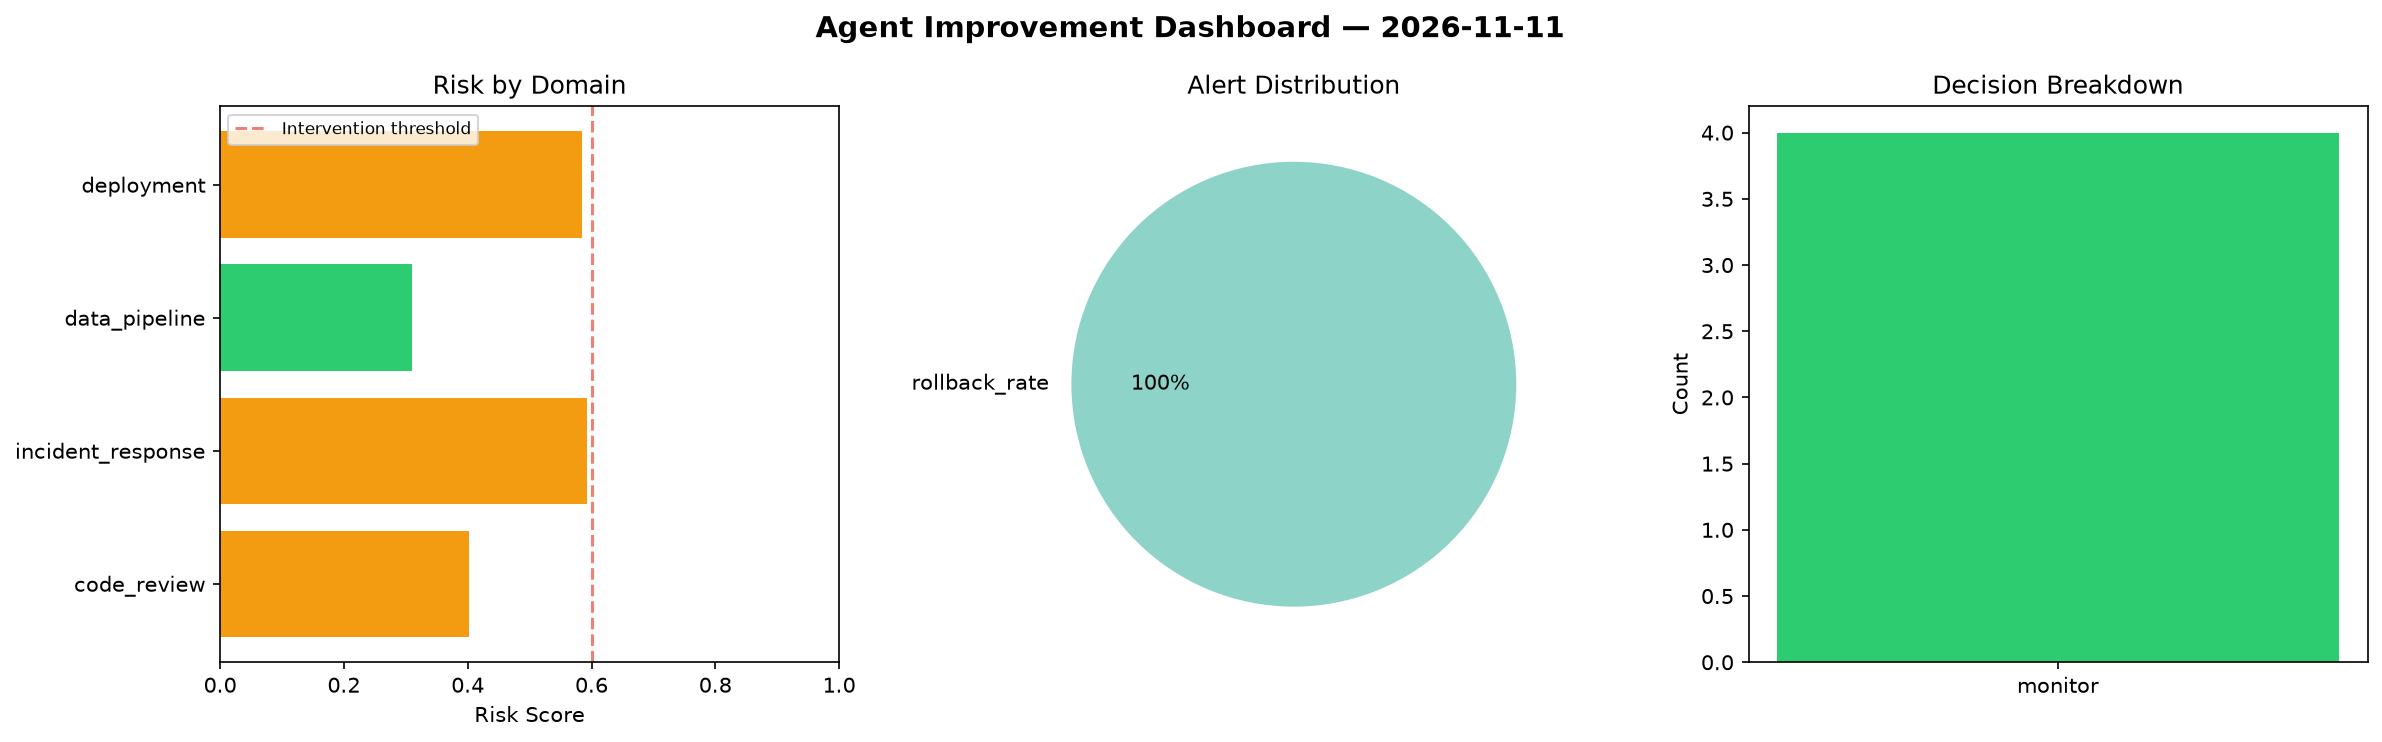
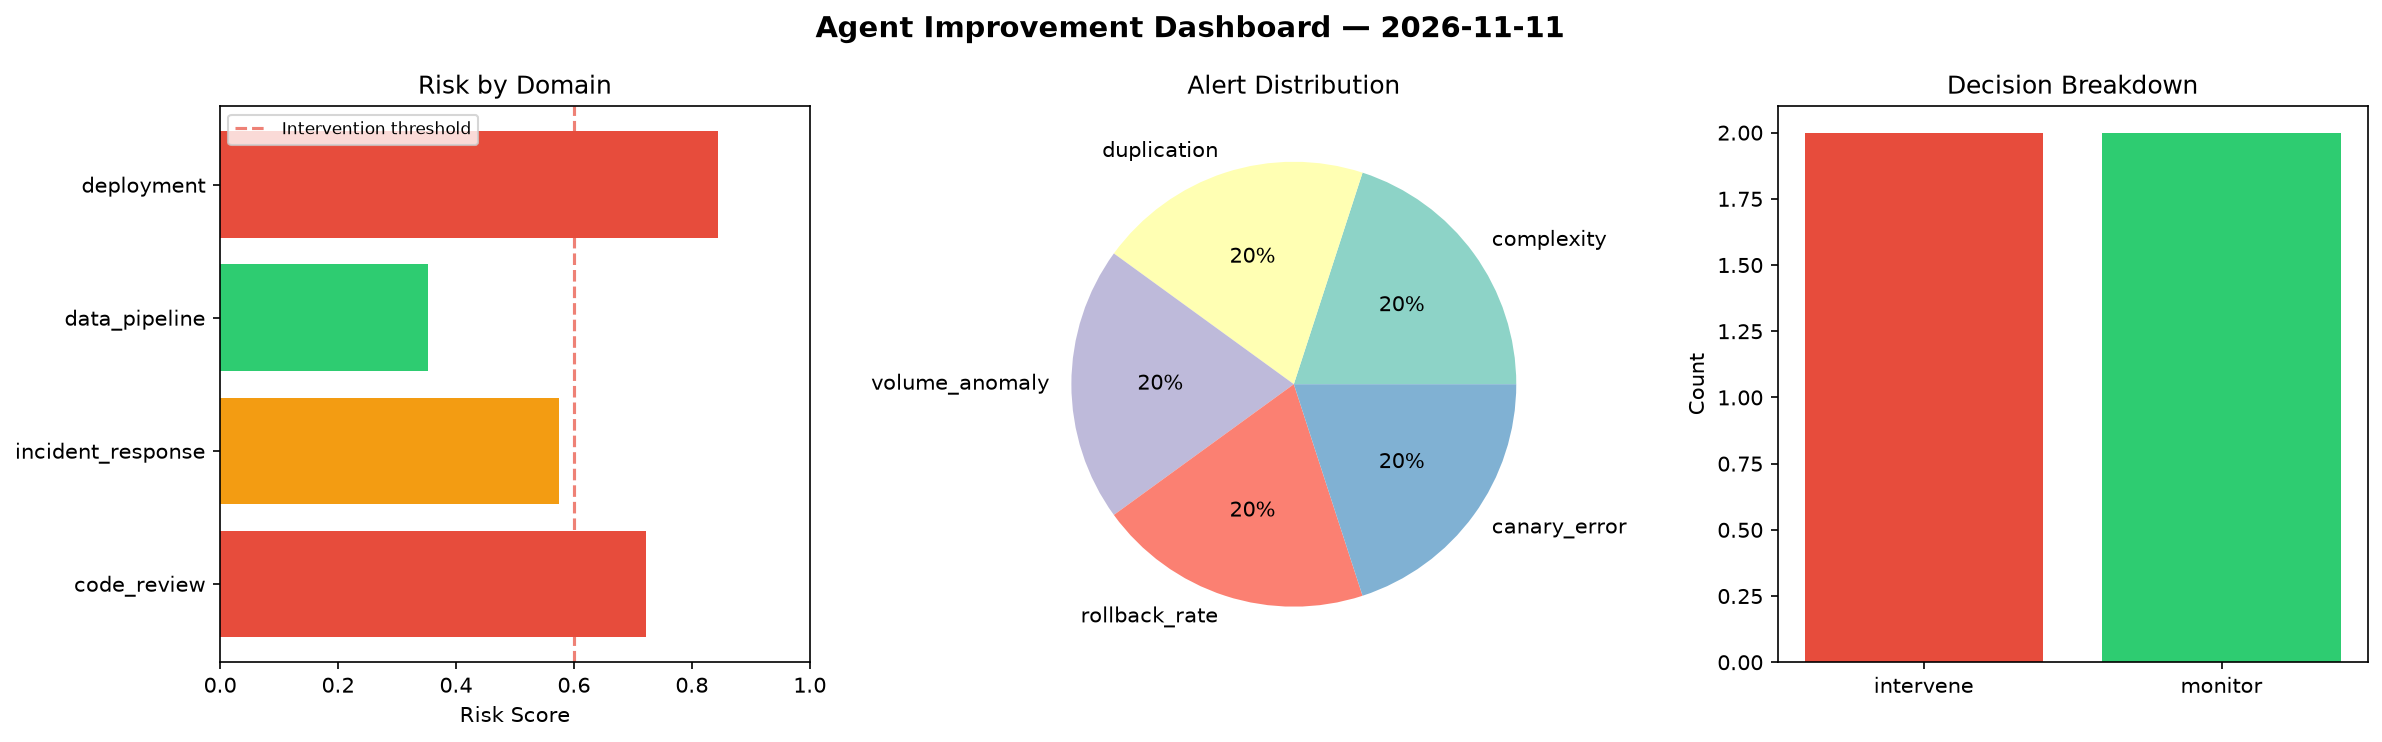
agent-improvement: daily cycle 2026-11-11T09:19

diff --git a/logs/2026-11-11.md b/logs/2026-11-11.md
@@ -1,6 +1,6 @@
 # Agent Improvement Report — 2026-11-11
 
-**Cycle ID:** `b7442cb9` | **Avg Risk:** 0.4723 | **Interventions:** 0/4
+**Cycle ID:** `9afcd098` | **Avg Risk:** 0.6236 | **Interventions:** 2/4
 
 ![Dashboard](2026-11-11_dashboard.png)
 
@@ -10,18 +10,18 @@
 
 | Domain | Risk Score | Decision | Alerts |
 |--------|-----------|----------|--------|
-| code_review | 0.4019 | monitor | none |
-| incident_response | 0.5919 | monitor | none |
-| data_pipeline | 0.31 | monitor | none |
-| deployment | 0.5854 | monitor | rollback_rate |
+| code_review | 0.7228 | intervene | complexity, duplication |
+| incident_response | 0.5745 | monitor | none |
+| data_pipeline | 0.3525 | monitor | volume_anomaly |
+| deployment | 0.8445 | intervene | rollback_rate, canary_error |
 
 ## Delta vs Yesterday
 
 | Domain | Today | Yesterday | Change |
 |--------|-------|-----------|--------|
-| code_review | 0.4019 | 0.522 | 📉 -23.0% |
-| incident_response | 0.5919 | 0.5341 | 📈 10.8% |
-| data_pipeline | 0.31 | 0.6035 | 📉 -48.6% |
-| deployment | 0.5854 | 0.516 | 📈 13.4% |
+| code_review | 0.7228 | 0.522 | 📈 38.5% |
+| incident_response | 0.5745 | 0.5341 | 📈 7.6% |
+| data_pipeline | 0.3525 | 0.6035 | 📉 -41.6% |
+| deployment | 0.8445 | 0.516 | 📈 63.7% |
 
 **Refinement:** `{'adjustment': 'tighten_thresholds', 'trend': 'degrading', 'window': 4}`
